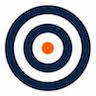
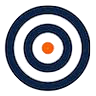
Updates sidenav png to make backgrounds transparent.

diff --git a/src/app/index.scss b/src/app/index.scss
@@ -28,7 +28,7 @@
 .sidemenu-icon.behavior { background: url(../assets/images/behavior-icon.png) no-repeat; }
 .sidemenu-icon.attendance { background: url(../assets/images/attendance.png) no-repeat; }
 .sidemenu-icon.grades { background: url(../assets/images/grades.png) no-repeat; }
-.sidemenu-icon.goals { background: url(../assets/images/goals.jpeg) no-repeat; }
+.sidemenu-icon.goals { background: url(../assets/images/goals.png) no-repeat; }
 .browsehappy {
   margin: 0.2em 0;
   background: #ccc;
@@ -190,7 +190,7 @@ span.name {
 // injector
 @import 'home/home.scss';
 @import 'student/student.scss';
-@import '../components/gradedonut/gradedonut.scss';
 @import '../components/navbar/navbar.scss';
+@import '../components/gradedonut/gradedonut.scss';
 @import '../components/studentsoverview/students.grid.scss';
 // endinjector

diff --git a/src/app/student/student.scss b/src/app/student/student.scss
@@ -44,8 +44,8 @@
 				height:35px;
 				div {
 					margin:auto;
-					width:25px;
-					height:25px;
+					width:22px;
+					height:22px;
 					background-size: cover;
 					cursor:pointer;
 					-webkit-transition: background-image 250ms linear;
